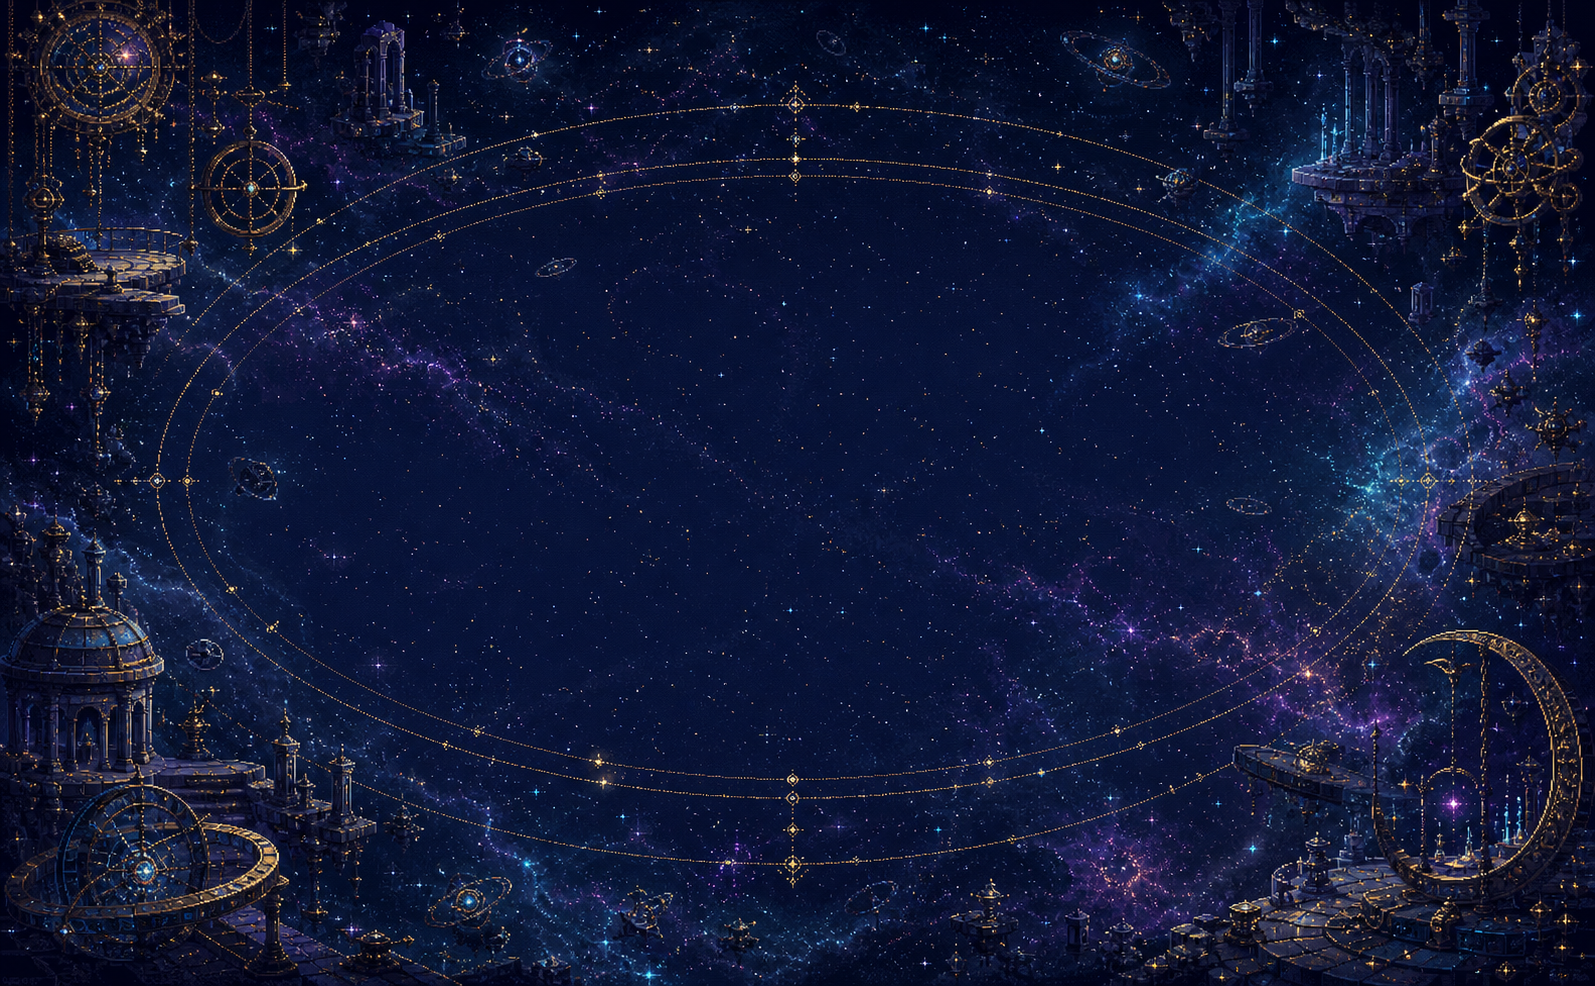
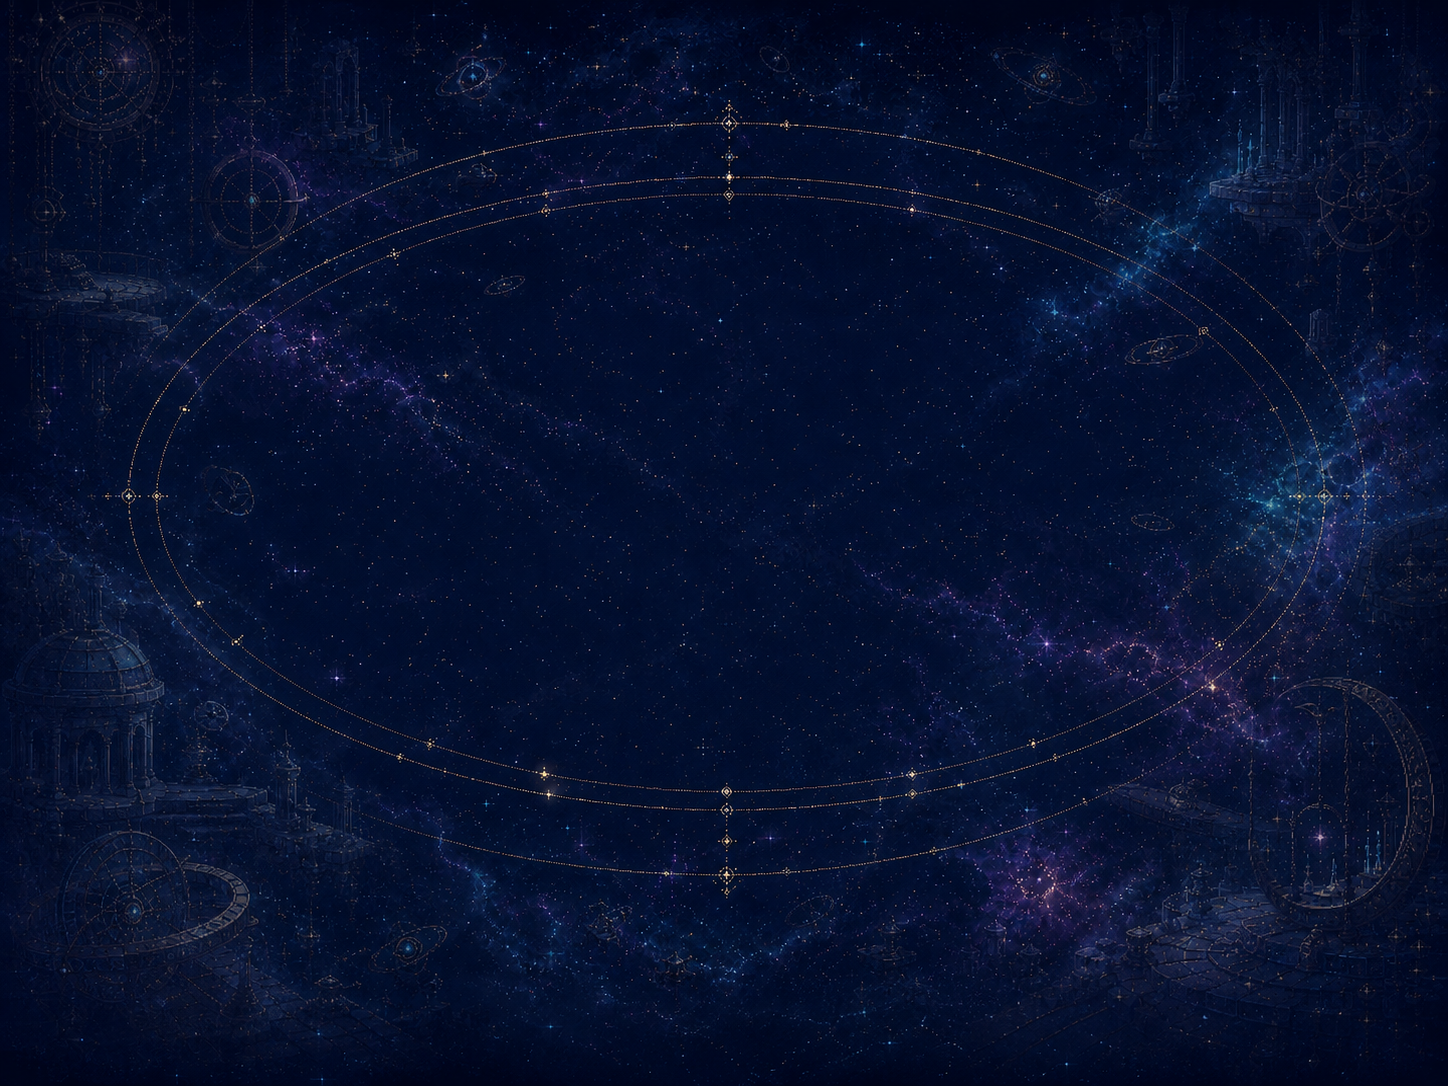
feat: improve horizon artwork and convection textures

diff --git a/index.html b/index.html
@@ -339,11 +339,7 @@
                   <path id="direction-path-yol" class="direction-arc direction-yol" d="M660 260A240 158 0 0 0 180 260" marker-end="url(#yol-direction-arrow)" />
                 </g>
 
-                <g id="convection-field" class="convection-field" aria-hidden="true">
-                  <path class="convection-band convection-band-a" d="M92 180H180V164H268V188H356V148H444V172H532V136H620V164H748V188H660V204H572V180H484V220H396V196H308V228H220V204H92Z" />
-                  <path class="convection-band convection-band-b" d="M108 324H196V300H284V332H372V292H460V316H548V276H636V304H732V328H644V344H556V324H468V356H380V332H292V364H204V340H108Z" />
-                  <path class="convection-shard" d="M176 108H204V124H220V152H192V140H164V120H176ZM620 88H652V108H668V132H640V124H612V104H620ZM696 364H724V380H740V408H712V396H684V376H696Z" />
-                </g>
+                <image id="convection-field" class="convection-artwork convection-field" href="assets/images/orbit-convection-hd.png" x="0" y="0" width="840" height="520" preserveAspectRatio="xMidYMid slice" aria-hidden="true" />
 
                 <g id="era-group">
                   <path class="era-aura-outer" d="M392 168H448V172H472V180H488V192H502V208H510V232H514V288H510V312H502V328H488V340H472V348H448V352H392V348H368V340H352V328H338V312H330V288H326V232H330V208H338V192H352V180H368V172H392Z" />
@@ -446,7 +442,7 @@
               <div class="horizon-heading">
                 <div>
                   <p class="panel-index">LOKALE SICHTLINIE</p>
-                  <h3 id="horizon-title">Horizontverlauf · Blick nach Norden</h3>
+                  <h3 id="horizon-title">Horizontverlauf · Norden · 0° Polare Eiswelt</h3>
                   <p>Dieselben Positionen, aus Eras rotierender Blickrichtung projiziert.</p>
                 </div>
                 <div
@@ -494,17 +490,15 @@
                 >
                   <title id="horizon-svg-title">Horizontverlauf mit Blick nach Norden</title>
                   <desc id="horizon-description">
-                    Schematische Projektion derselben Sol-, Yol- und ZEHS-Positionen aus der gewählten lokalen Blickrichtung am Polstand auf Era.
+                    Gestaffelte Projektion derselben Sol-, Yol- und ZEHS-Positionen zwischen fernem Himmel, transparenten Pixelwolken und dem Vordergrund der gewählten Landschaft.
                   </desc>
 
-                  <rect class="horizon-sky-band sky-band-1" width="840" height="44" />
-                  <rect class="horizon-sky-band sky-band-2" y="44" width="840" height="44" />
-                  <rect class="horizon-sky-band sky-band-3" y="88" width="840" height="44" />
-                  <rect class="horizon-sky-band sky-band-4" y="132" width="840" height="44" />
-                  <image class="horizon-artwork horizon-artwork-polar" href="assets/images/horizon-polar-hd.png" x="0" y="0" width="840" height="280" preserveAspectRatio="xMidYMid slice" aria-hidden="true" />
-                  <image class="horizon-artwork horizon-artwork-temperate" href="assets/images/horizon-temperate-hd.png" x="0" y="0" width="840" height="280" preserveAspectRatio="xMidYMid slice" aria-hidden="true" />
-                  <image class="horizon-artwork horizon-artwork-desert" href="assets/images/horizon-desert-hd.png" x="0" y="0" width="840" height="280" preserveAspectRatio="xMidYMid slice" aria-hidden="true" />
+                  <rect class="horizon-sky-base" width="840" height="252" />
+                  <image class="horizon-artwork horizon-artwork-back horizon-artwork-polar" href="assets/images/horizon-polar-hd1.png" x="0" y="0" width="840" height="400" preserveAspectRatio="xMidYMid slice" aria-hidden="true" />
+                  <image class="horizon-artwork horizon-artwork-back horizon-artwork-temperate" href="assets/images/horizon-temperate-hd1.png" x="0" y="0" width="840" height="460" preserveAspectRatio="xMidYMid slice" aria-hidden="true" />
+                  <image class="horizon-artwork horizon-artwork-back horizon-artwork-desert" href="assets/images/horizon-desert-hd1.png" x="0" y="0" width="840" height="280" preserveAspectRatio="xMidYMid slice" aria-hidden="true" />
                   <rect class="horizon-artwork-tone" width="840" height="252" aria-hidden="true" />
+                  <image class="horizon-atmosphere horizon-stars-artwork" href="assets/images/horizon-stars-pixel-hd.png" x="0" y="0" width="840" height="280" preserveAspectRatio="xMidYMid slice" aria-hidden="true" />
                   <path class="horizon-dither" d="M0 40H840V44H0ZM0 84H840V88H0ZM0 128H840V132H0ZM12 36H16V40H12ZM40 36H44V40H40ZM68 36H72V40H68ZM96 36H100V40H96ZM124 36H128V40H124ZM152 36H156V40H152ZM180 36H184V40H180ZM208 36H212V40H208ZM236 36H240V40H236ZM264 36H268V40H264ZM292 36H296V40H292ZM320 36H324V40H320ZM348 36H352V40H348ZM376 36H380V40H376ZM404 36H408V40H404ZM432 36H436V40H432ZM460 36H464V40H460ZM488 36H492V40H488ZM516 36H520V40H516ZM544 36H548V40H544ZM572 36H576V40H572ZM600 36H604V40H600ZM628 36H632V40H628ZM656 36H660V40H656ZM684 36H688V40H684ZM712 36H716V40H712ZM740 36H744V40H740ZM768 36H772V40H768ZM796 36H800V40H796ZM824 36H828V40H824Z" />
                   <g class="horizon-stars" aria-hidden="true"><path d="M72 24H76V28H72ZM160 68H164V72H160ZM260 32H264V36H260ZM364 76H368V80H364ZM472 20H476V24H472ZM576 64H580V68H576ZM676 28H680V32H676ZM764 72H768V76H764Z" /></g>
                   <path class="horizon-nebula" d="M0 84H52V68H92V76H128V92H160V108H132V116H92V108H52V120H0ZM840 48H796V36H756V52H728V68H696V88H728V96H768V84H808V96H840Z" />
@@ -530,11 +524,7 @@
                     <path class="desert-sky-sparks" d="M52 84H60V88H52ZM144 72H152V76H144ZM268 88H276V92H268ZM388 68H396V72H388ZM516 84H524V88H516ZM628 72H636V76H628ZM748 88H756V92H748Z" />
                   </g>
 
-                  <g id="horizon-convection-field" class="horizon-convection-field" aria-hidden="true">
-                    <path class="horizon-convection-band band-a" d="M0 36H96V24H192V52H288V32H384V60H480V28H576V48H672V20H840V64H744V76H648V52H552V80H456V56H360V88H264V64H168V84H72V68H0Z" />
-                    <path class="horizon-convection-band band-b" d="M0 104H120V88H240V116H360V92H480V124H600V96H720V112H840V148H720V132H600V156H480V140H360V160H240V136H120V152H0Z" />
-                    <path class="horizon-shards" d="M132 52H148V60H156V76H140V84H124V68H132ZM684 40H704V52H712V68H696V76H676V60H684ZM396 92H412V100H424V116H404V124H388V108H396Z" />
-                  </g>
+                  <image id="horizon-convection-field" class="convection-artwork horizon-convection-field" href="assets/images/horizon-convection-hd.png" x="0" y="0" width="840" height="280" preserveAspectRatio="xMidYMid slice" aria-hidden="true" />
 
                   <g id="horizon-zehs-star" class="zehs horizon-zehs-star" transform="translate(680 124)" aria-hidden="false">
                     <use href="#zehs-star-shape" transform="scale(.72)" />
@@ -554,6 +544,12 @@
                     <image class="celestial-artwork body-artwork horizon-body-artwork" href="assets/images/yol-star-hd.png" x="-32" y="-32" width="64" height="64" preserveAspectRatio="xMidYMid meet" aria-hidden="true" />
                     <text class="horizon-body-label" x="0" y="48" text-anchor="middle">YOL</text>
                   </g>
+
+                  <image class="horizon-atmosphere horizon-clouds-artwork" href="assets/images/horizon-clouds-pixel-hd.png" x="0" y="0" width="840" height="280" preserveAspectRatio="xMidYMid slice" aria-hidden="true" />
+
+                  <image class="horizon-artwork horizon-artwork-front horizon-artwork-polar" href="assets/images/horizon-polar-hd2.png" x="0" y="0" width="840" height="280" preserveAspectRatio="xMidYMid slice" aria-hidden="true" />
+                  <image class="horizon-artwork horizon-artwork-front horizon-artwork-temperate" href="assets/images/horizon-temperate-hd2.png" x="0" y="0" width="840" height="280" preserveAspectRatio="xMidYMid slice" aria-hidden="true" />
+                  <image class="horizon-artwork horizon-artwork-front horizon-artwork-desert" href="assets/images/horizon-desert-hd2.png" x="0" y="0" width="840" height="280" preserveAspectRatio="xMidYMid slice" aria-hidden="true" />
 
                   <g id="horizon-biome-polar" class="biome-layer biome-polar" data-biome="polar" aria-hidden="true">
                     <path class="mountain-back polar-mountain-back" d="M0 176V150H44L76 126 96 138 128 108 164 146H204L244 118 280 148H332L372 104 416 148H464L504 120 544 148H596L636 110 680 146H728L768 122 804 148H840V176Z" />

diff --git a/styles.css b/styles.css
@@ -24,6 +24,10 @@
   --space-5: 20px;
   --space-6: 24px;
   --space-8: 32px;
+  --radius-xs: 4px;
+  --radius-sm: 6px;
+  --radius-md: 10px;
+  --radius-lg: 14px;
   --wood-950: #03050e;
   --wood-900: #070a18;
   --wood-800: #11172c;
@@ -1412,7 +1416,18 @@ main {
 
 .is-convection .convection-field,
 .is-convection .horizon-convection-field {
-  opacity: 1;
+  opacity: 0.78;
+}
+
+.convection-artwork {
+  pointer-events: none;
+  image-rendering: auto;
+  mix-blend-mode: screen;
+}
+
+:root[data-theme="light"] .is-convection .convection-artwork {
+  opacity: 0.58;
+  mix-blend-mode: multiply;
 }
 
 .convection-band-a,
@@ -1584,6 +1599,10 @@ main {
 
 .sky-band-4 {
   fill: var(--sky-4);
+}
+
+.horizon-sky-base {
+  fill: var(--sky-2);
 }
 
 .horizon-dither,
@@ -3555,6 +3574,20 @@ footer {
   display: none;
 }
 
+.horizon-atmosphere {
+  pointer-events: none;
+  image-rendering: pixelated;
+  mix-blend-mode: screen;
+}
+
+.horizon-stars-artwork {
+  opacity: 0.26;
+}
+
+.horizon-clouds-artwork {
+  opacity: 0.12;
+}
+
 #horizon-view[data-biome="polar"] .horizon-artwork-polar,
 #horizon-view[data-biome="temperate"] .horizon-artwork-temperate,
 #horizon-view[data-biome="desert"] .horizon-artwork-desert {
@@ -3577,20 +3610,26 @@ footer {
   fill: rgb(255 244 214 / 8%);
 }
 
-#horizon-view .biome-sky,
+#horizon-view[data-biome] .biome-sky,
 #horizon-view .biome-layer > :not(.biome-name-label) {
   display: none;
 }
 
 .horizon-dither,
 .horizon-nebula,
-.horizon-constellations {
+.horizon-constellations,
+.horizon-stars,
+.horizon-star-crosses,
+.horizon-line {
   display: none;
 }
 
-.horizon-stars,
-.horizon-star-crosses {
-  opacity: 0.38;
+:root[data-theme="light"] .horizon-stars-artwork {
+  opacity: 0.18;
+}
+
+:root[data-theme="light"] .horizon-clouds-artwork {
+  opacity: 0.08;
 }
 
 .biome-name-label {
@@ -3711,4 +3750,70 @@ footer {
     font-size: 16px;
     line-height: 18px;
   }
+}
+
+/* Softened instrument geometry */
+
+.panel {
+  border-radius: var(--radius-lg);
+}
+
+.header-facts,
+.explanation-grid,
+.phase-track,
+.sky-stage,
+.horizon-stage,
+.horizon-section,
+.horizon-latitude-panel,
+.horizon-direction-group,
+.zehs-parameters {
+  overflow: hidden;
+  border-radius: var(--radius-md);
+}
+
+.skip-link,
+.theme-toggle,
+.button,
+.direction-button,
+.latitude-button,
+.field-control,
+.phase-sigil,
+.phase-card,
+.category-label,
+.occurrence-label,
+.state-badge,
+.active-phase-sigil,
+.convection-message,
+.zehs-context-note,
+.phase-segment,
+.explanation article {
+  border-radius: var(--radius-sm);
+}
+
+.brand-sigil,
+.section-seal,
+.theme-toggle-icon,
+.explanation-icon,
+.zehs-instrument-heading img,
+.zehs-instrument-heading svg {
+  overflow: hidden;
+  border-radius: var(--radius-md);
+}
+
+.section-seal span,
+.phase-sigil.is-active::after,
+.hero-runes i,
+.meter-track span {
+  border-radius: var(--radius-xs);
+}
+
+.meter-track,
+.time-slider::-webkit-slider-runnable-track,
+.time-slider::-moz-range-track {
+  border-radius: var(--radius-sm);
+}
+
+.time-slider::-webkit-slider-thumb,
+.time-slider::-moz-range-thumb {
+  border-radius: var(--radius-md);
 }

diff --git a/app.js b/app.js
@@ -78,9 +78,9 @@
 
   const HORIZON_DIRECTION_ORDER = Object.freeze(["north", "east", "south", "west"]);
   const HORIZON_LATITUDES = Object.freeze({
-    0: Object.freeze({ degrees: 0, name: "Polare Eiswelt", biome: "polar", description: "Eis- und Schneelandschaft am Polstand" }),
-    30: Object.freeze({ degrees: 30, name: "Gemäßigtes Tannenland", biome: "temperate", description: "gemäßigte Waldlandschaft 30 Grad äquatorwärts" }),
-    60: Object.freeze({ degrees: 60, name: "Heiße Wüstenlandschaft", biome: "desert", description: "Wüstenrand 60 Grad äquatorwärts" }),
+    0: Object.freeze({ degrees: 0, title: "Polare Eiswelt", name: "polare Eiswelt", biome: "polar", description: "Eis- und Schneelandschaft am Polstand" }),
+    30: Object.freeze({ degrees: 30, title: "Gemäßigtes", name: "gemäßigte Tannenlandschaft", biome: "temperate", description: "gemäßigte Waldlandschaft 30 Grad äquatorwärts" }),
+    60: Object.freeze({ degrees: 60, title: "Wüste", name: "heiße Wüstenlandschaft", biome: "desert", description: "Wüstenrand 60 Grad äquatorwärts" }),
   });
   const HORIZON_LATITUDE_ORDER = Object.freeze([0, 30, 60]);
   const ZEHS_PARAMETERS = Object.freeze({
@@ -968,7 +968,7 @@
       button.classList.toggle("is-active", active);
     }
     if (elements.horizonTitle) {
-      elements.horizonTitle.textContent = `Horizontverlauf · ${activeDirection.name} · ${activeLatitude.degrees}° ${activeLatitude.name}`;
+      elements.horizonTitle.textContent = `Horizontverlauf · ${activeDirection.name} · ${activeLatitude.degrees}° ${activeLatitude.title}`;
     }
     if (elements.horizonSvgTitle) {
       elements.horizonSvgTitle.textContent = `Horizontverlauf mit Blick nach ${activeDirection.name} bei ${activeLatitude.degrees} Grad Polversatz`;

diff --git a/README.md b/README.md
@@ -104,8 +104,12 @@ vollständigen Era-Rotation wird nicht erfunden.
 
 ## Horizontverlauf
 
-Der Horizontverlauf ist eine getrennte Pixelart-Grafik mit harten Himmelsbändern,
-Dithering, Landschaftssilhouetten und Kompassbeschriftungen. Die Seitenbezeichnungen lauten:
+Der Horizontverlauf ist eine getrennte, hochauflösende Pixelart-Grafik mit echter Tiefenstaffelung.
+Für jedes Biom liegt `hd1` hinter den Himmelskörpern und `hd2` davor. Sterne werden transparent
+vor `hd1`, Sol, Yol und ZEHS in der Mitte und eine sehr transparente Wolkenebene vor den
+Himmelskörpern gezeichnet. Dadurch verschwinden die bewegten Körper sichtbar hinter Bergen,
+Gebäuden und Gelände von `hd2`, statt nur über einem flachen Panorama zu schweben. Die
+Seitenbezeichnungen lauten:
 
 | Blickrichtung | links | rechts |
 | --- | --- | --- |
@@ -131,9 +135,10 @@ Jede Breitenstufe besitzt ein vollständiges, zur Auswahl passendes Pixelpanoram
 | 30° | Gemäßigtes Tannenland | Bergketten, Tannenwald, Fluss und Waldhütte |
 | 60° | Heiße Wüstenlandschaft | Dünen, Mesas, Kakteen und Wüstenruinen |
 
-Die Biome wechseln nicht nur das Gelände, sondern auch Himmel, Wetterpixel und Horizontfarben.
-Alle drei Landschaften besitzen getrennt abgestimmte Paletten für den hellen und dunklen Modus;
-die astronomischen Positionen und Messwerte bleiben beim rein visuellen Wechsel unverändert.
+Die Biome wechseln Gelände, Himmel und Horizontfarben. Die gemeinsamen Stern- und Wolkenebenen
+werden per Screen-Compositing ohne Blur eingeblendet und bleiben in beiden Themes bewusst
+zurückhaltend; die astronomischen Positionen und Messwerte bleiben beim rein visuellen Wechsel
+unverändert.
 
 Die Daten fließen in einer festen Reihenfolge:
 
@@ -155,9 +160,10 @@ Ein Richtungs- oder Breitenwechsel berechnet keine neue Simulation: Zeitpunkt, S
 Sol-/Yol-Winkel, Geschwindigkeit, Intensität und Körpergröße bleiben unverändert. Nur Blickbasis,
 Projektionshöhe sowie die zugehörigen Kompass- und Breitenmarkierungen ändern sich.
 
-Während der Konvektion sind Sol und Yol in beiden Grafiken unsichtbar. Das Panorama zeigt den
-verdichteten Dunkelzustand mit harten Pixelbändern und fernen Splitterwelten statt weicher
-Aurora- oder Glow-Effekte.
+Während der Konvektion sind Sol und Yol in beiden Grafiken unsichtbar. Zwei transparente
+HD-Texturen zeigen den verdichteten Dunkelzustand mit verschlungenen Energieströmen,
+Kristallsplittern und fernen Splitterwelten. Eine eigene 3:1-Panoramaebene liegt über dem Horizont;
+die Orbitkarte verwendet eine zweite, um Era herum freigestellte Fassung.
 
 ## Zeitmodell
 
@@ -201,9 +207,10 @@ nicht von der Bildrate, der Blickrichtung oder dem vorherigen Navigationsweg ab.
 Das Interface verwendet ein konsequentes Pixelraster, harte Rahmen und versetzte Schatten ohne
 Blur. Die lokalen Chronikschriften bleiben großen Überschriften vorbehalten; Bedienelemente und
 Messwerte verwenden blockige Monospace-Fallbacks. Die SVG-Grafiken arbeiten mit `crispEdges`,
-ganzzahligen Strichstärken, quadratischen Linecaps und Miter-Verbindungen. Die Wallpaper liegen
-als 3344 × 1882 Pixel große Nearest-Neighbor-Exporte vor; jede Theme-Fassung referenziert nur ihr
-zugehöriges Motiv.
+ganzzahligen Strichstärken, quadratischen Linecaps und Miter-Verbindungen. Hochauflösende
+Himmelskarten, Landschaftsebenen und Himmelsobjekte werden lokal als Rastergrafiken geladen;
+jede Theme-Fassung referenziert nur ihr zugehöriges Motiv. Sanfte, gemeinsame Radientokens runden
+Instrumente, Icons und Eingabefelder ab, ohne die Pixelästhetik in Pillenformen aufzulösen.
 
 Beide Themes besitzen eine vollständige Materialpalette. Fokuszustände sind deutlich sichtbar,
 Slider und Chronikband bleiben per Tastatur bedienbar und `prefers-reduced-motion` wird
@@ -221,7 +228,7 @@ phases.js                   kanonische Phasenvorlagen plus illustrative Werteber
 app.js                      Seed, Zeitmodell, Geometrie, Projektion, Animation und Interaktion
 Textdatei.txt               kanonische Lore- und Zeitreferenz
 assets/fonts/               lokal eingebettete, offen lizenzierte Chronikschrift
-assets/images/              helle/dunkle Astral-Wallpaper plus hochauflösende 2×-Exporte
+assets/images/              Astral-Wallpaper, Himmelskörper und gestaffelte HD-Horizontebenen
 tests/smoke.cjs             Fake-DOM-, Interaktions-, Zustands- und Geometrievertrag
 tests/visual-contract.cjs   statischer Vertrag gegen moderne/unscharfe Gestaltungseffekte
 ```
@@ -244,8 +251,8 @@ Koordinaten, S-Int-Grenzen, SVG-Grenzen und der Sicherheitsabstand zu Era kontro
 Der visuelle Vertrag liest HTML, CSS und JavaScript statisch. Er untersagt unter anderem
 `backdrop-filter`, Gauß-Weichzeichnung, Pillenradien, alte SVG-Verläufe und die frühere
 horizontabhängige Skalierung orbitaler Y-Radien. Außerdem prüft er die Pixel-SVG-Einstellungen,
-die vier zugänglichen Richtungsbuttons, die drei Breitenstufen, den ZEHS-Pixelpunkt und den
-gemeinsamen Geometrievertrag.
+die vier zugänglichen Richtungsbuttons, die drei Breitenstufen, den ZEHS-Pixelpunkt, die feste
+Horizontebenen-Reihenfolge, transparente Atmosphärenebenen und den gemeinsamen Geometrievertrag.
 
 ## Grenzen der Darstellung
 
